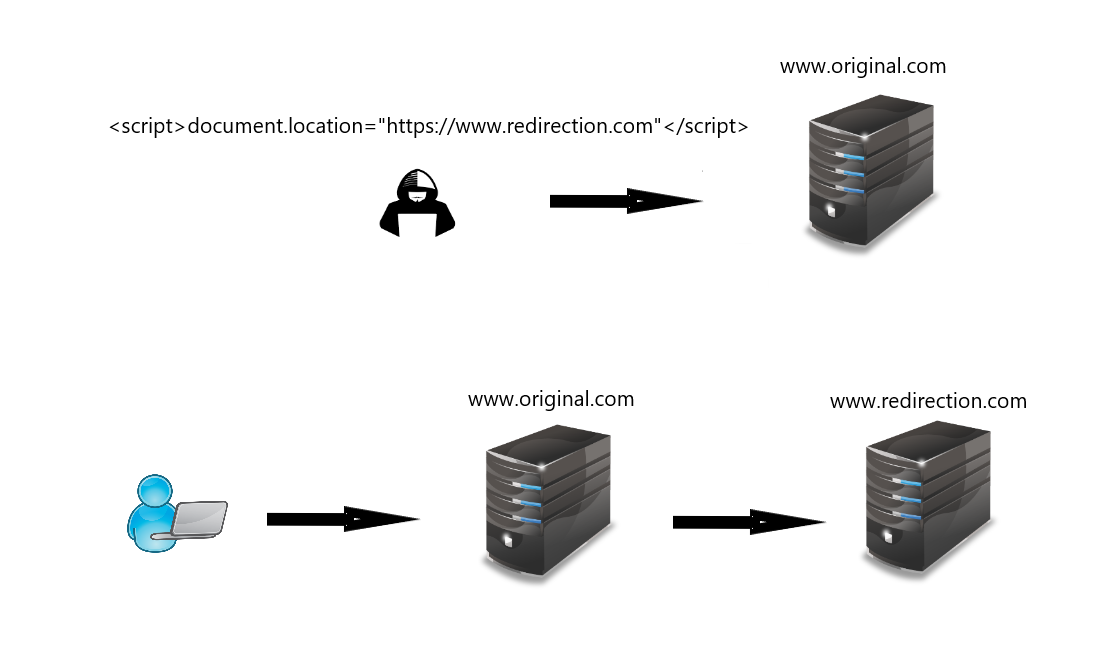
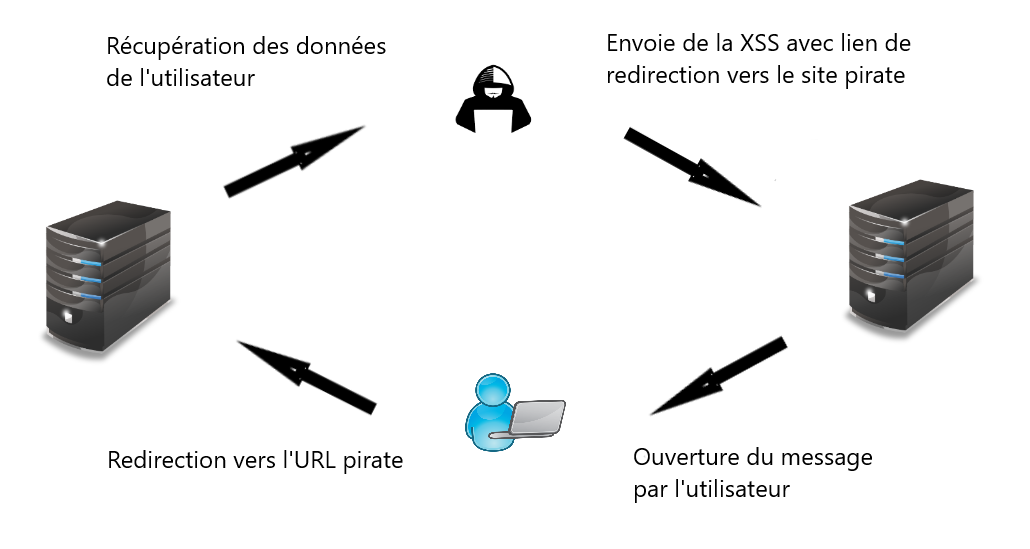
Add files via upload

diff --git a/projetschema.md b/projetschema.md
@@ -37,29 +37,63 @@ Pour rentrer plus en profondeur je vais détailler 4 injections SQL
 
 **Attaque 1 : Blind Based**
 
-L'injection aveugle SQL est un type d'attaque qui pose des questions à la base de données et détermine la réponse en fonction de la réponse des applications, exemple, ici notre mot de passe est "password", j'envoie une requête serveur et je devine le mot de passe au fur à mesure.
+L'injection de type aveugle ( ou 'Blind based' ) est une injection où ne connait rien de la base de donnée.
 
-Rappel : le "%" est essentiel, il permet de dire "Et tous le reste".
+IMAGE1 TAIQUI
 
-IMAGE ExempleBlind
+Prenons cette page de connexion classique. Ici nous avons aucune information sur ce qu'il peut avoir dans la base de donnée. Le but de cette attaque est de récupéré ( et non de se connecter simplement ) le mot de passe de l'administrateur. Dans une grande majorité des cas le nom de compte sera admin, on reprendra donc cette forte probabilité pour n'avoir que le mot de passe à trouver. On peut supposé aussi que le nom de la table sera users.
 
-Requête SQL
+On va donc commence à tester une à une les lettres de alphabète, majuscule,minuscule ainsi que les chiffres et quelque caractères spéciaux, attention certain caractère son interdit, ils ont une signification spéciale suivant la base de donnée ainsi que sa version employé.
 
-**Attaque 2 : Time Based**
+La majorité des cas que vous pourrez voir utiliseront substr, ici pour changer un peu, nous allons utilisé left(chaine,taille) qui permet de ressortir taille caractères de chaine.
 
-Presque identique à la première, cependant, la réponse est déterminé en fonction du temps de réponse des applications, exemple : si la réponse se fait en 1 seconde c'est vrais, si elle ce fait en 5 seconde c'est faux. De ce fait on peut faire comme la première et déterminé le mot de passe en au fur à mesure suivant le temps de réponse.
+ex : left("Salut",2) => 'Sa'
 
-IMAGE ExempleTime
+on a donc USERNAME à remplir ainsi que PASSWORD
 
-**Attaque 3 : Error Based**
+```
+username="admin' and (select left(password,1)) from users where
+name='admin')='a' -- -
+password="salut"
+```
+
+Nous remplirons les champs USERNAME et PASSWORD comme décrit au dessus pour un premier essais 
+
+Supposons que la page nous renvois :
+
+IMAGE2 TAIQUI
+
+On en conclus donc que le mot de passe ne commence pas par la lettre a.
+
+Après avoir testé plusieurs cas, avec la commande suivante :
+
+```
+USERNAME = "admin' and (select left(password,1)) from users where
+name='admin')='3' -- - "
+```
+
+Il nous apparait ceci :
+
+IMAGE3 TAIQUI
+
+On en conclut donc que le premier caractère de notre mots de passe est '3'.
+
+On peut donc passé au deuxième comme ceci 
+
+```
+USERNAME = "and (select left(password,2)) from users where name='admin')='3a'
+-- -"
+```
+
+Et ainsi de suite jusqu'à trouvé toute les lettres. Voila vous comprenais maintenant l'injection SQL de type aveugle !
+
+**Attaque 2 : Error Based**
 
 Cette méthode profite d'une faiblesse des systèmes de base de données permettant de détourner un message d'erreur généré par la base de données et préalablement volontairement provoquée par l'injection SQL pour lui faire retourner une valeur précise récupérée en base de données
 
-**Attaque 4 : Union Based**
+**Attaque 3 : Union Based**
 
 L'injection SQL basée sur l'Union est une technique d'injection qui exploite l'opérateur SQL UNION qui est utilisé pour combiner le résultat de deux ou plusieurs instructions SELECT en un seul résultat
-
-IMAGE ExempleUnion
 
 ### Prévention
 
@@ -230,11 +264,62 @@ Les applications et en particulier les services Web basés sur XML ou les intég
 
 **Attaque 2 : XXE**
 
-Une attaque d' entité externe XML est un type d'attaque contre une application qui analyse une entrée XML. Cette attaque se produit lorsque l' entrée XML contenant une référence à une entité externe est traitée par un analyseur XML faiblement configuré . 
+Une XXE de son nom XML External Entity, est une injection par du langage XML. Prenons un site lambda permettant d'inserer du code XML, par exemple pour donner une police d'écriture spéciale, une taille d'écriture spéciale etc.
 
-Cette attaque peut entraîner la divulgation de données confidentielles, un déni de service, la falsification de requêtes côté serveur, la numérisation de port du point de vue de la machine sur laquelle se trouve l'analyseur et d'autres impacts sur le système.
+IMAGEXXE1 TAIQUI
 
-IMAGE ExempleXEE
+La base d'un code XML ressemble à ceci :
+
+```xml
+<?xml version="1.0" encoding="UTF-8"?>
+<rss version="2.0">
+	<channel>
+		<title>Mon site</title>
+		<description>Ceci est un exemple de flux RSS 2.0</description>
+		<lastBuildDate>Sat, 07 Sep 2002 00:00:01 GMT</lastBuildDate>
+		<link>http://www.example.org</link>
+		<item>
+			<title>Actualité N°1</title>
+			<description>Ceci est ma première actualité</description>
+			<pubDate>Sat, 07 Sep 2002 00:00:01 GMT</pubDate>
+			<link>http://www.example.org/actu1</link>
+		</item>
+		<item>
+			<title>Actualité N°2</title>
+			<description>Ceci est ma seconde actualité</description>
+			<pubDate>Sat, 07 Sep 2002 00:00:01 GMT</pubDate>
+			<link>http://www.example.org/actu2</link>
+		</item>
+	</channel>
+</rss>
+```
+
+La méthode pour notre attaque qui va être d'injecté du code que le serveur exécutera, sera d'ajouté dans le header du fichier une commande dans ce genre la :
+
+```
+<!DOCTYPE HELLO [
+<!ENTITY XXE_REKT SYSTEM "SOMETHING" >
+]><title>&XXE_REKT;</title>
+```
+
+Ici il faut ajouté dans SOMETHING quelque chose que le serveur pourra traité. On pourrai choisir d'affiché par exemple le code source d'une page de login par exemple :
+
+```
+<!DOCTYPE HELLO [
+<!ENTITY XXE_REKT SYSTEM "file:///PATH/TO/FILE/login.php" >
+]><title>&XXE_REKT;</title>
+```
+
+On pourrai notamment poussé l'exploitation plus loin en outrepassant des filtres basique en utilisant des WRAPPER php qui sont des fonction interne a PHP.
+
+```
+<!DOCTYPE HELLO [
+<!ENTITY XXE_REKT SYSTEM "php://filter/read=convert.base64-
+encode=PATH/TO/FILE" >
+]><title>&XXE_REKT;</title>
+```
+
+Ceci nous retournerais le code sources du fichier demandé en base64, il nous resterait uniquement à décoder ce fichier pour avoir le code en clair !
 
 ### Prévention
 
@@ -277,7 +362,7 @@ Le contrôle d'accès applique une stratégie telle que les utilisateurs ne peuv
 
 **Attaque 1 : JSON Web Token (JWT)**
 
-JSON Web token permet l'échange sécurisé de jetons entre plusieurs parties cependant, on peut usurper un token ou encore trompé la vérification de la signature ou encore déchiffré des "secrets" facilement avec des dictionnaires.
+JSON Web token permet l'échange sécurisé de jetons entre plusieurs parties. Le principe est simple, un hash est générer qui servira de signature pendant une certaine durée. Ce token va ensuite transiter dans chaque requête entre le client et le serveur.
 
 Un JSON Web token est construis en 3 parties.
 
@@ -287,6 +372,8 @@ Un JSON Web token est construis en 3 parties.
 On peut voir les tokens si l'on inspecte la page dans la partie "network", un exemple d'un TOKEN.
 
 *eyJ0eXAiOiJKV1QiLCJhbGciOiJIUzI1NiJ9.eyJ1c2VybmFtZSI6Imd1ZXN0In0.OnuZnYMdetcg7AWGV6WURn8CFSfas6AQej4V9M13nsk*
+
+Cependant on peut usurper un token ou encore trompé la vérification de la signature ou encore déchiffré des "secrets" facilement avec des dictionnaires.
 
 Si l'on décode chaque partie cela donne :
 
@@ -344,10 +431,6 @@ L'application peut être vulnérable si l'application est:
 
 **Attaque 1 : Insecure Code Management**
 
-Certain site web laisse parfois des accès a des informations sensible, un exemple avec le .git
-
-On remarque sur un site web que l'administrateur à laisser u
-
 ### Prévention
 
 Des processus d'installation sécurisés doivent être mis en œuvre, notamment:
@@ -389,11 +472,17 @@ Pour tester si une faille XSS existe, la manière la plus simple est d’injecte
 
 Cette commande permet de voir si le site est faillible à du XSS elle est à retenir 
 
-- <script>alert(1)</script>
+- <script>alert(1)</script>*
 
-Si lorsque j’envoie mon script Javascript, une pop-up apparait. la faille est bien présente dans le formulaire.
+ *alert : fait apparaitre une fenêtre sur le navigateur
+
+Si lorsque j’envoie mon script Javascript, une fenêtre apparait. la faille est bien présente dans le formulaire.
 
 Ensuite je dois construire ma XSS pour récupéré un cookie ou faire une redirection vers un site malveillant.
+
+Exemple d'une XSS de redirection 
+
+- <script>document.location="https://www.redirection.com/"</script>
 
 IMAGE ExempleXSS
 
